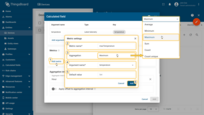
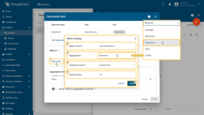
Calculated fields Correct inaccuracies in the documentation

Changed region(s): [[0.6765, 0.1304, 0.9118, 0.5478], [0.6176, 0.4696, 0.6471, 0.4957]]

diff --git a/_includes/docs/user-guide/calculated-fields/related-entities-aggregation-calculated-field.md b/_includes/docs/user-guide/calculated-fields/related-entities-aggregation-calculated-field.md
@@ -109,7 +109,7 @@ How it works:
 - additional updates arriving within the interval do not trigger aggregation again
 - after the interval ends, aggregation run again using the latest available data
 
-> Minimum time between telemetry aggregations: 60 seconds.
+> Minimum time between telemetry aggregations: 10 seconds.
 
 This prevents excessive reprocessing and reduces system load in high-frequency environments.
 
@@ -254,7 +254,7 @@ The field will:
         title: Second metric settings:<br>- **Metric name:** maxTemperature<br>- **Aggregation:** Maximum<br>- **Value source:** key<br>- **Argument name:** temperature.
     ===
         /images/user-guide/calculated-fields/related-entities/related-entities-cf-example-1-11-ce.png
-        title: Deduplication interval: 60 seconds.<br>The output value will be stored as a telemetry. Click **Add** to save the calculation field.
+        title: Deduplication interval: 10 seconds.<br>The output value will be stored as a telemetry. Click **Add** to save the calculation field.
 '
 %}
 
